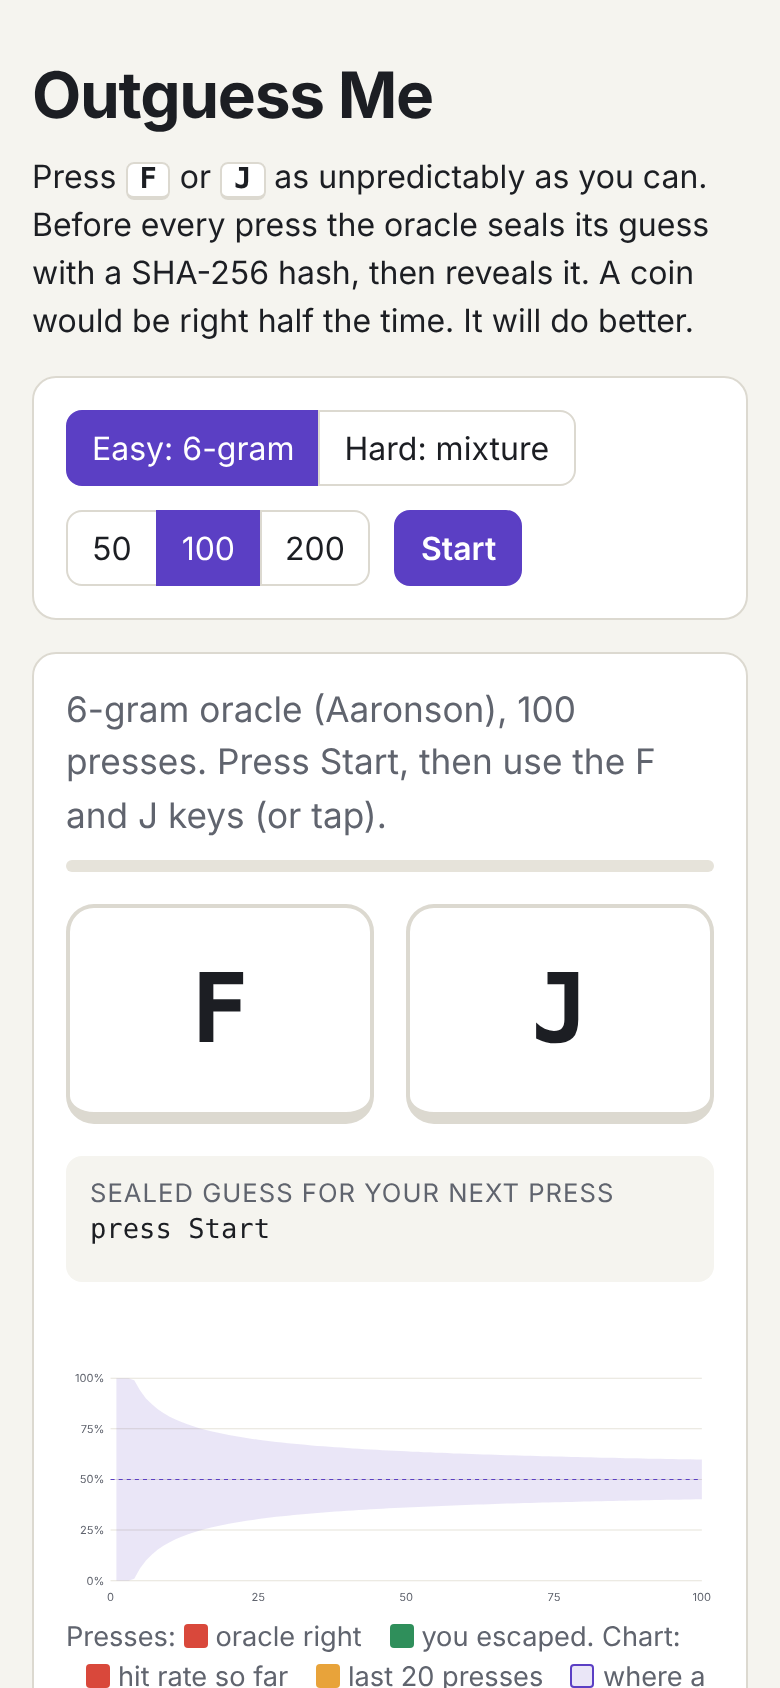
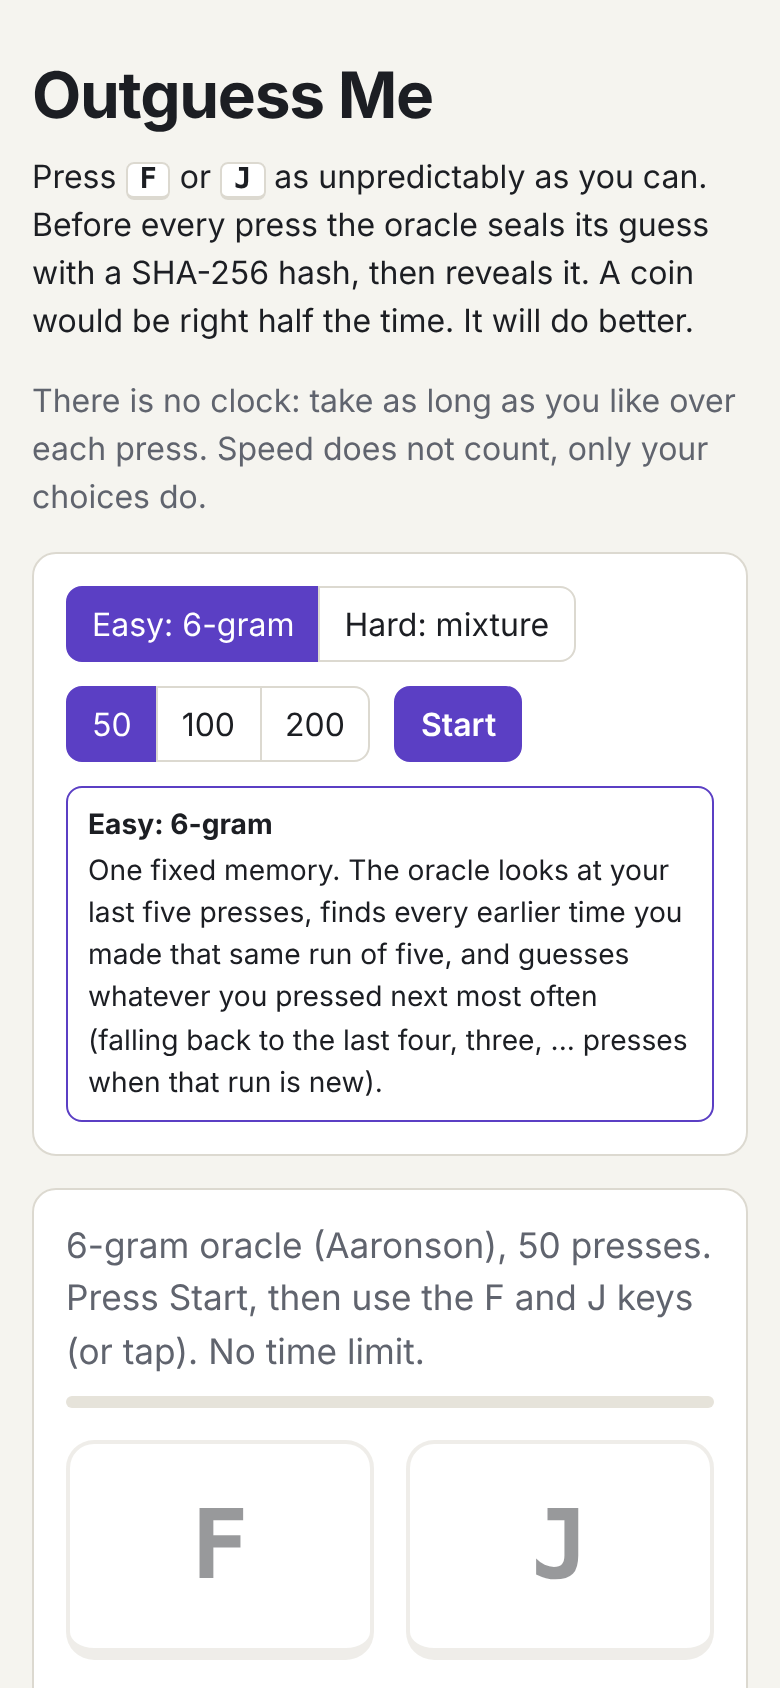
feat(outguess-me): require Start, default to 50 presses, explain modes
Keys pressed with no game running now nudge the Start button instead of
starting a new game, so extra presses after the last one cannot wipe the
breakdown. Default length is 50, the page says speed does not count, and
the settings card explains how the 6-gram and mixture oracles differ.

Claude-Session: https://claude.ai/code/session_018aecaogdyYTzQSWeW94mYv

Changed region(s): [[0.0308, 0.2156, 0.9538, 1.0], [0.0308, 0.6777, 0.0615, 0.7085]]

diff --git a/src/ui/app.ts b/src/ui/app.ts
@@ -33,13 +33,14 @@ function verdict(s: Summary): string {
 }
 
 export function mountApp(root: HTMLElement): void {
-  const state: State = { mode: 'easy', length: 100, session: null, lastRound: null, lastVerified: null, analysed: null };
+  const state: State = { mode: 'easy', length: 50, session: null, lastRound: null, lastVerified: null, analysed: null };
 
   root.innerHTML = `
     <header class="top">
       <h1>Outguess Me</h1>
       <p class="lede">Press <kbd>F</kbd> or <kbd>J</kbd> as unpredictably as you can. Before every press the oracle
       seals its guess with a SHA-256 hash, then reveals it. A coin would be right half the time. It will do better.</p>
+      <p class="lede muted">There is no clock: take as long as you like over each press. Speed does not count, only your choices do.</p>
     </header>
     <section class="card controls" aria-label="Game settings">
       <div class="seg" role="radiogroup" aria-label="Oracle">
@@ -52,6 +53,10 @@ export function mountApp(root: HTMLElement): void {
         <button data-len="200" role="radio">200</button>
       </div>
       <button id="start" class="primary">Start</button>
+      <dl class="modes">
+        <div data-mode-help="easy"><dt>Easy: 6-gram</dt><dd>One fixed memory. The oracle looks at your last five presses, finds every earlier time you made that same run of five, and guesses whatever you pressed next most often (falling back to the last four, three, ... presses when that run is new).</dd></div>
+        <div data-mode-help="hard"><dt>Hard: mixture</dt><dd>Six of those tables at once, remembering your last 0 to 5 presses. Each gets a vote, and a table loses weight every time it guesses wrong, so the oracle shifts to whichever memory length is reading you best right now. Switching strategy mid-game buys you a few presses, not the game.</dd></div>
+      </dl>
     </section>
     <section class="card play" aria-label="Play">
       <div class="score" id="score" aria-live="polite"></div>
@@ -92,10 +97,12 @@ export function mountApp(root: HTMLElement): void {
   const chart = $('#chart');
   const results = $('#results');
   const pasteError = $('#paste-error');
+  const startButton = $<HTMLButtonElement>('#start');
 
   function syncControls(): void {
     root.querySelectorAll<HTMLButtonElement>('[data-mode]').forEach((b) => b.setAttribute('aria-checked', String(b.dataset.mode === state.mode)));
     root.querySelectorAll<HTMLButtonElement>('[data-len]').forEach((b) => b.setAttribute('aria-checked', String(Number(b.dataset.len) === state.length)));
+    root.querySelectorAll<HTMLElement>('[data-mode-help]').forEach((d) => d.classList.toggle('active', d.dataset.modeHelp === state.mode));
   }
 
   function renderPlay(): void {
@@ -105,7 +112,11 @@ export function mountApp(root: HTMLElement): void {
     const target = s?.target ?? state.length;
     score.innerHTML = s
       ? `<strong>Oracle ${hits}</strong> / ${rounds.length} <span class="muted">(${rounds.length ? pct(hits / rounds.length) : '-'})</span> · You ${rounds.length - hits} · ${target - rounds.length} presses left`
-      : `<span class="muted">${modeLabel(state.mode)}, ${state.length} presses. Press Start, then use the F and J keys (or tap).</span>`;
+      : `<span class="muted">${modeLabel(state.mode)}, ${state.length} presses. Press Start, then use the F and J keys (or tap). No time limit.</span>`;
+    if (s?.done) score.innerHTML += ` <span class="muted">Game over: the breakdown is below. Press Start for a new game.</span>`;
+    const playing = !!s && !s.done;
+    root.querySelectorAll<HTMLButtonElement>('.key').forEach((k) => k.classList.toggle('idle', !playing));
+    startButton.textContent = s ? 'New game' : 'Start';
     bar.style.width = pct(rounds.length / target, 1);
     const pending = s?.pendingCommitment;
     hash.textContent = s ? (s.done ? 'game over' : (pending?.hash ?? 'sealing...')) : 'press Start';
@@ -265,6 +276,13 @@ export function mountApp(root: HTMLElement): void {
     void seal();
   }
 
+  /** A key press with no game running: point at Start instead of starting one. */
+  function nudge(): void {
+    startButton.classList.remove('nudge');
+    void startButton.offsetWidth;
+    startButton.classList.add('nudge');
+  }
+
   function flash(bit: Bit, caught: boolean): void {
     const key = root.querySelector<HTMLElement>(`.key[data-bit="${bit}"]`);
     if (!key) return;
@@ -296,7 +314,7 @@ export function mountApp(root: HTMLElement): void {
   $('#start').addEventListener('click', start);
   root.querySelectorAll<HTMLButtonElement>('.key').forEach((b) =>
     b.addEventListener('click', () => {
-      if (!state.session || state.session.done) start();
+      if (!state.session || state.session.done) nudge();
       else press(Number(b.dataset.bit) as Bit);
     }),
   );
@@ -306,7 +324,7 @@ export function mountApp(root: HTMLElement): void {
     const k = e.key.toLowerCase();
     if (k === 'f' || k === 'j') {
       e.preventDefault();
-      if (!state.session || state.session.done) start();
+      if (!state.session || state.session.done) nudge();
       else press(k === 'f' ? 0 : 1);
     }
   });

diff --git a/src/ui/styles.css b/src/ui/styles.css
@@ -437,3 +437,56 @@ footer a {
 .sw.misssw {
   background: var(--miss);
 }
+
+.modes {
+  flex-basis: 100%;
+  display: grid;
+  grid-template-columns: 1fr 1fr;
+  gap: 10px;
+  margin: 0;
+  font-size: 0.88rem;
+}
+@media (max-width: 720px) {
+  .modes {
+    grid-template-columns: 1fr;
+  }
+  .modes > div:not(.active) {
+    display: none;
+  }
+}
+.modes > div {
+  border: 1px solid var(--border);
+  border-radius: 8px;
+  padding: 8px 10px;
+  color: var(--muted);
+}
+.modes > div.active {
+  border-color: var(--accent);
+  color: var(--fg);
+}
+.modes dt {
+  font-weight: 700;
+}
+.modes dd {
+  margin: 2px 0 0;
+}
+.key.idle {
+  opacity: 0.45;
+}
+#start.nudge {
+  animation: nudge 0.6s;
+}
+@keyframes nudge {
+  0%,
+  100% {
+    transform: none;
+  }
+  20%,
+  60% {
+    transform: translateX(-4px);
+  }
+  40%,
+  80% {
+    transform: translateX(4px);
+  }
+}

diff --git a/README.md b/README.md
@@ -15,11 +15,16 @@ A take on Scott Aaronson's classic "oracle" demo, prompted by the
 
 ## What you can do
 
-- **Play** 50, 100 or 200 presses with the keyboard or the on-screen keys.
+- **Play** 50 (default), 100 or 200 presses with the keyboard or the on-screen
+  keys. A game only begins when you press Start, and keys pressed before Start
+  or after the last press are ignored, so the breakdown is never wiped by an
+  accidental extra press. There is no clock: speed does not count.
   The live view shows the score, the sealed hash for the next press, the last
   reveal with a "check it yourself" recipe, a strip of recent presses coloured
   by who won, and a chart of the oracle's hit rate (overall and last 20)
   against the band a coin-flipping oracle stays inside 95% of the time.
+- The settings card explains the two oracles in plain words, next to the
+  mode switch.
 - **Easy mode** is Aaronson's oracle: a 6-gram table (the five previous presses
   predict the sixth), backing off to shorter contexts while a context is unseen
   or tied, and betting on a switch when it has nothing to go on.
